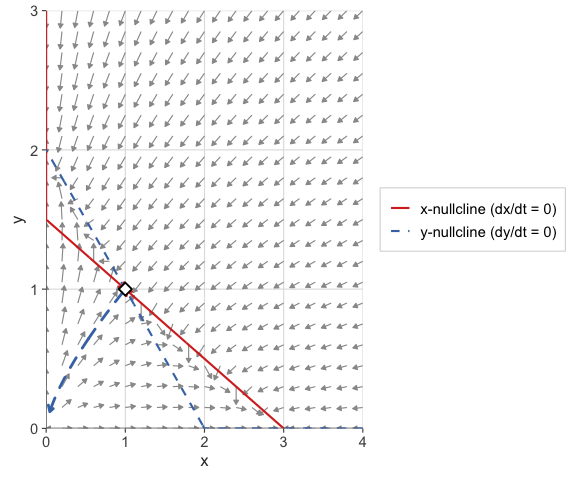
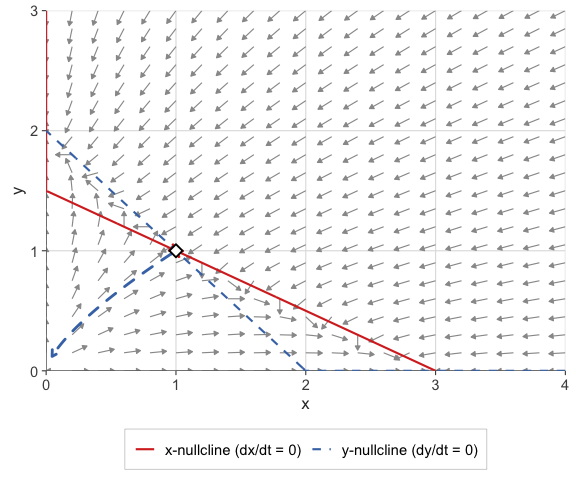
improved readme & vignettes

diff --git a/README.md b/README.md
@@ -55,9 +55,10 @@ gg_flow_field(
 ) +
   gg_nullclines(
     ode_lotka_volterra,
-    xlim       = c(0, 5),
-    ylim       = c(0, 5),
-    parameters = lv_params
+    xlim            = c(0, 5),
+    ylim            = c(0, 5),
+    parameters      = lv_params,
+    legend_position = "bottom"
   ) +
   gg_trajectory(
     ode_lotka_volterra,
@@ -84,9 +85,10 @@ single call:
 ``` r
 result <- gg_phase_plane(
   ode_lotka_volterra,
-  xlim       = c(0, 5),
-  ylim       = c(0, 5),
-  parameters = lv_params
+  xlim            = c(0, 5),
+  ylim            = c(0, 5),
+  parameters      = lv_params,
+  legend_position = "bottom"
 )
 
 result$plot
@@ -200,7 +202,9 @@ eq_cl <- classify_equilibrium(ode_example_11, equilibrium = eq[[1L]])
 gg_flow_field(ode_example_11,
               xlim = c(0, 4), ylim = c(0, 3)) +
   gg_nullclines(ode_example_11,
-                xlim = c(0, 4), ylim = c(0, 3)) +
+                xlim            = c(0, 4),
+                ylim            = c(0, 3),
+                legend_position = "bottom") +
   gg_manifolds(ode_example_11,
                equilibrium   = eq[[1L]],
                eq_classified = eq_cl,